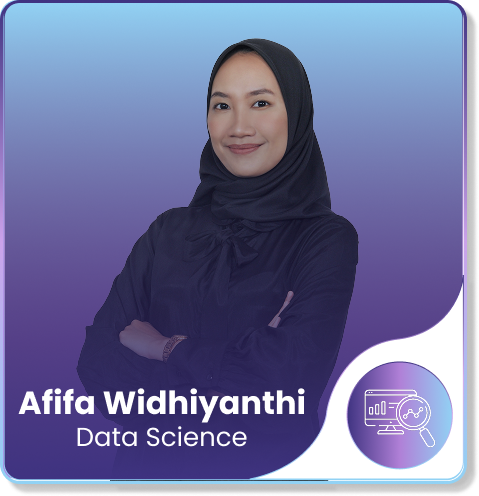
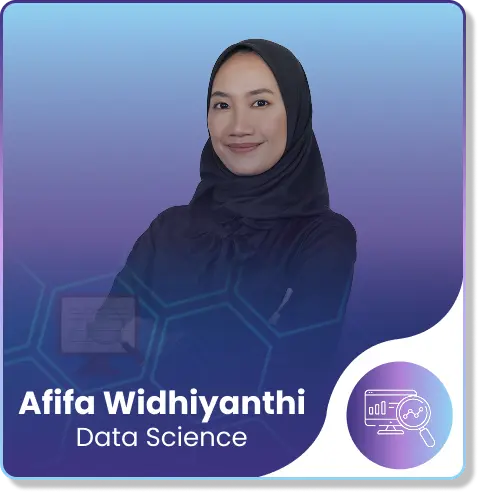
revisi tanggal dan foto(lagi)

diff --git a/src/components/filing/bootcamp.tsx b/src/components/filing/bootcamp.tsx
@@ -14,12 +14,12 @@ export default function BootcampPage() {
 
               <div className=" flex items-center justify-center">
                 <div className="flex md:gap-12 lg:gap-44 justify-center">
-                  <div className="md:w-1/2 lg:w-2/5 rounded-2xl border-2 border-[#91D2F4] group transition-all duration-300 ease-in-out hover:shadow-xl hover:scale-100 hover:-translate-y-1">
+                  <div className="md:w-1/2 lg:w-2/5 rounded-2xl border-2 border-[#91D2F4] group transition-all duration-300 ease-in-out hover:shadow-xl hover:scale-[1.02] hover:-translate-y-1">
                     <Link href="/filing/DataScience">
                       <div className="">
                         <div className="items-center mb-4">
                           <Image
-                            src="/filing/bootcamp1.webp"
+                            src="/filing/bootcampDS.webp"
                             alt="Data Science"
                             width={400}
                             height={350}
@@ -38,12 +38,12 @@ export default function BootcampPage() {
                     </Link>
                   </div>
 
-                  <div className="md:w-1/2 lg:w-2/5 rounded-2xl border-2 border-[#91D2F4] group transition-all duration-300 ease-in-out hover:shadow-xl hover:scale-100 hover:-translate-y-1">
+                  <div className="md:w-1/2 lg:w-2/5 rounded-2xl border-2 border-[#91D2F4] group transition-all duration-300 ease-in-out hover:shadow-xl hover:scale-[1.02] hover:-translate-y-1">
                     <Link href="/filing/CyberSecurity">
                       <div>
                         <div className="items-center mb-4">
                           <Image
-                            src="/filing/bootcamp2.webp"
+                            src="/filing/bootcampCS.webp"
                             alt="Cyber Security"
                             width={400}
                             height={350}
@@ -79,12 +79,12 @@ export default function BootcampPage() {
         </div>
 
         <div className="flex justify-center items-center pb-2">
-          <div className="w-80 rounded-2xl border-2 border-[#91D2F4] group transition-all duration-300 ease-in-out hover:shadow-xl hover:scale-100 hover:-translate-y-1">
+          <div className="w-80 rounded-2xl border-2 border-[#91D2F4] group transition-all duration-300 ease-in-out hover:shadow-xl hover:scale-[1.02] hover:-translate-y-1">
             <Link href="/filing/DataScience">
               <div className="">
                 <div className="items-center mb-4">
                   <Image
-                    src="/filing/bootcamp1.webp"
+                    src="/filing/bootcampDS.webp"
                     alt="Data Science"
                     className="w-full h-auto"
                     width={400}
@@ -105,13 +105,13 @@ export default function BootcampPage() {
           </div>
         </div>
 
-        <div className="flex justify-center items-center pb-2 group transition-all duration-300 ease-in-out hover:shadow-xl hover:scale-100 hover:-translate-y-1">
-          <div className="w-80 rounded-2xl border-2 border-[#91D2F4]">
+        <div className="flex justify-center items-center pb-2">
+          <div className="w-80 rounded-2xl border-2 border-[#91D2F4] group transition-all duration-300 ease-in-out hover:shadow-xl hover:scale-[1.02] hover:-translate-y-1">
             <Link href="/filing/CyberSecurity">
               <div>
                 <div className="items-center mb-4">
                   <Image
-                    src="/filing/bootcamp2.webp"
+                    src="/filing/bootcampCS.webp"
                     alt="Cyber Security"
                     className="w-full h-auto"
                     width={400}
@@ -122,7 +122,7 @@ export default function BootcampPage() {
                   <i>&quot;Empowering Cyber Defenders : <br></br>Training for Real-World Challenges&quot;</i>
                 </div>
                 <div className="px-10 text-black text-center font-semibold font-['Poppins'] mb-5">
-                  27 April 2025 - 18 Mei 2025
+                  26 April 2025 - 17 Mei 2025
                 </div>
                 <button className="w-full mt-4 mb-2 px-1 tracking-tight text-[#3F3381] font-bold font-serif" >
                   Lihat Detail Program
